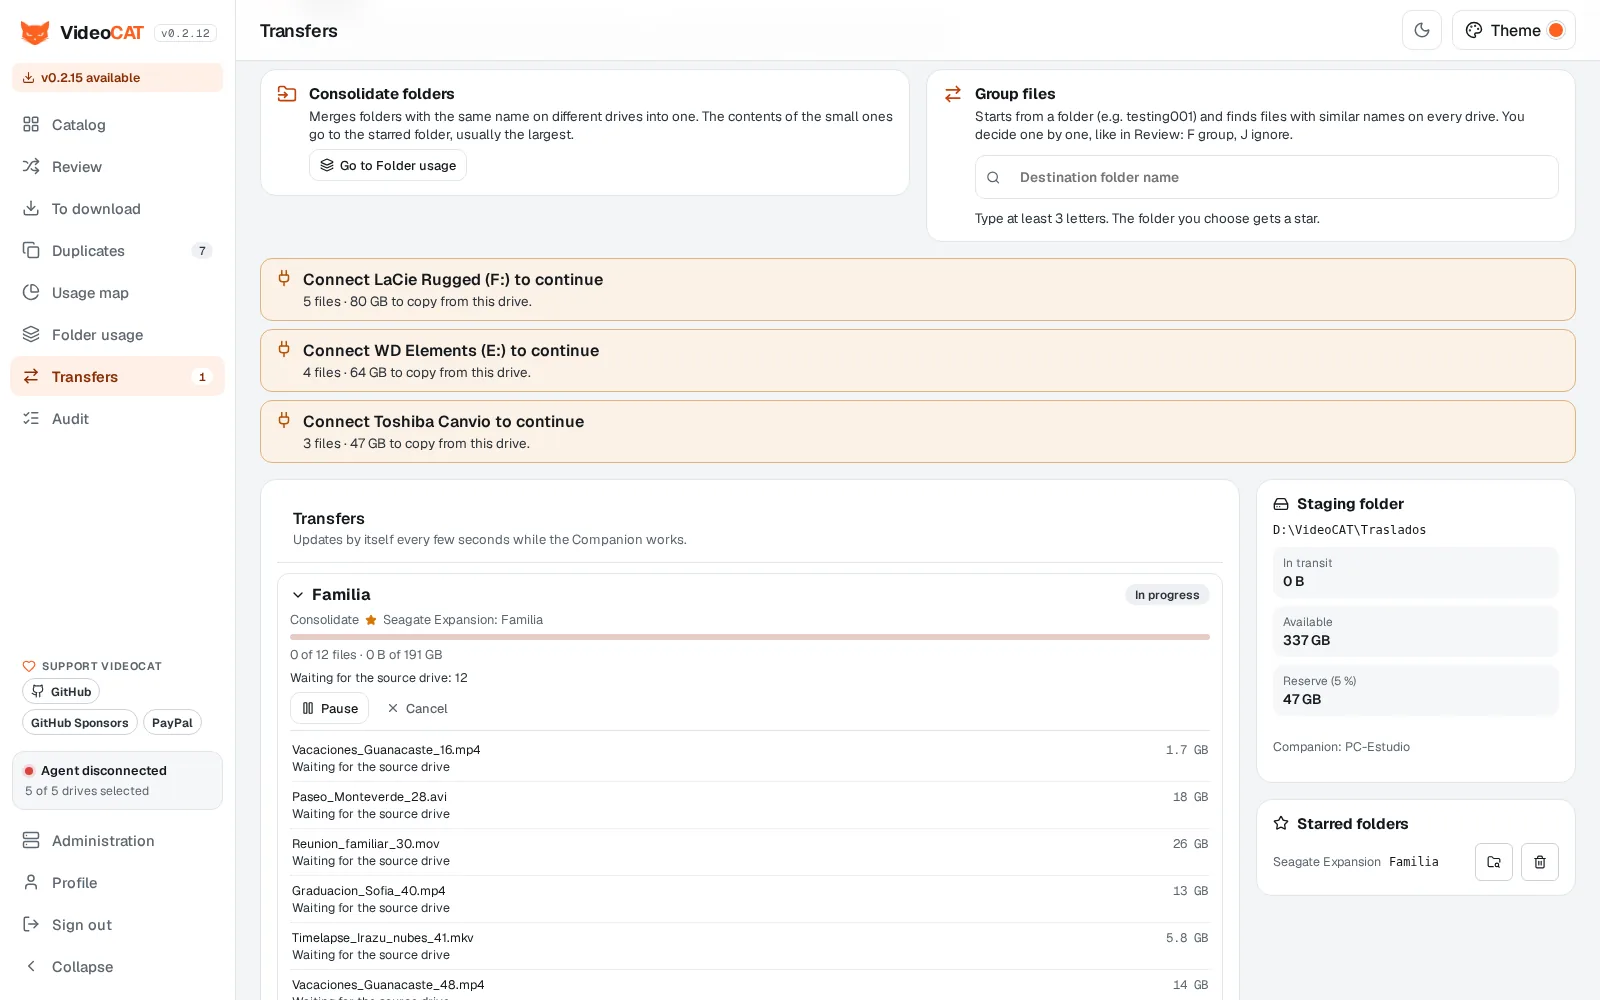
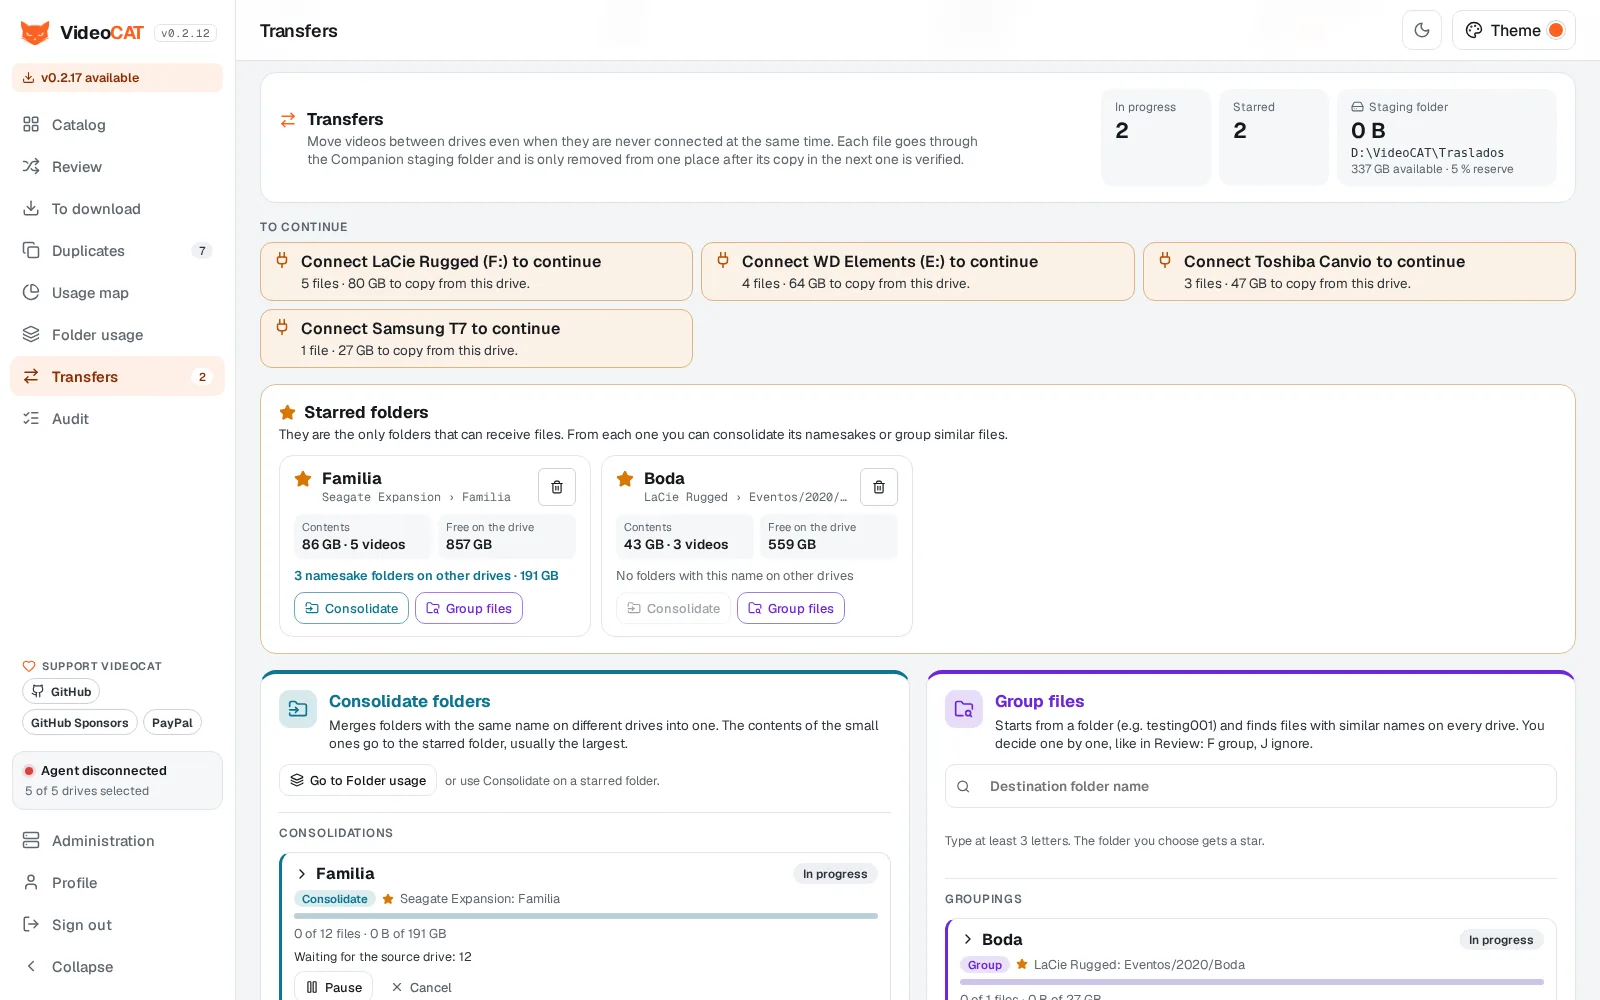
docs: distroless server image as a pending item; new Traslados screenshots

diff --git a/ROADMAP.es.md b/ROADMAP.es.md
@@ -144,6 +144,15 @@ La consolidación de septiembre de 2026 implementa el libro `ActionAudit`, clave
 
 Lo pendiente queda marcado en cada fase. Los puntos más relevantes son las pruebas de escaneos concurrentes, la ingesta en lote, los presupuestos de rendimiento con 100k/500k videos, el cifrado de respaldos y un simulacro de restauración antes de cada release estable.
 
+## Pendiente: Imagen Distroless Del Servidor
+
+Acordado en octubre de 2026, después de endurecer las imágenes en `0.2.17` (Debian 13, sin gestores de paquetes, escaneo Trivy en CI).
+
+- Pasar el runtime del servidor a una base *distroless* de Node (sin shell, `apt`, `tar`, perl ni util-linux) para quitar casi todos los avisos restantes de Debian y dejar sin herramientas a quien lograra ejecutar código en el contenedor.
+- Cambios necesarios: arranque con un script de Node (migraciones de Prisma y luego el servidor) en lugar de `sh -c`; reemplazar `thumbnails-init` de Compose, que hoy usa `sh` + `find`; fijar el motor de Prisma para OpenSSL 3 sin depender de comandos del sistema; documentar la variante `:debug` para diagnóstico.
+- No resuelve el aviso de `zlib` (lo necesitan OpenSSL y Prisma); se cierra cuando Debian publique el arreglo.
+- Validación: base vacía con las 22+ migraciones, login, healthcheck, e2e contra el contenedor y escaneo Trivy/Scout antes y después.
+
 ## Orden Recomendado
 
 1. Red de seguridad automatizada.
